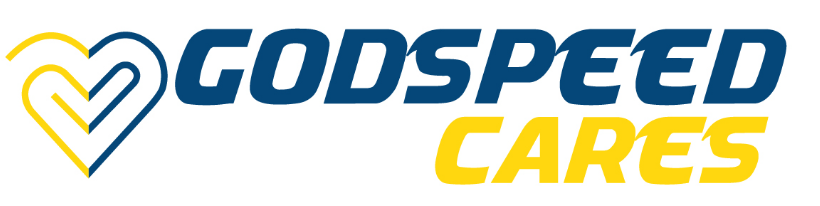
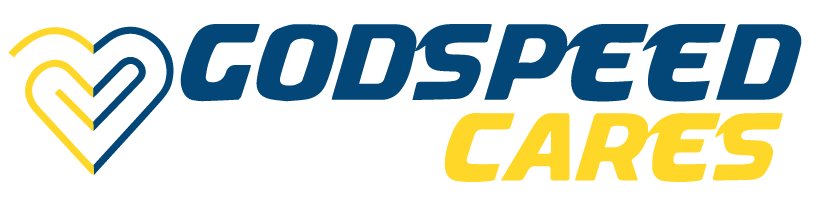
updated

Changed region(s): [[0.0, 0.1165, 0.9756, 0.9029]]

diff --git a/index.html b/index.html
@@ -27,6 +27,7 @@
                     url(images/bg/right-2.svg),
                     url(images/bg/right-3.svg),
                     url(images/bg/right-4.svg),
+                    url(images/bg/godspeed_triangle.gif),
                     url(images/bg/bottom-11.svg);
                 background-repeat: no-repeat;
                 background-position: -1rem -1rem,
@@ -36,6 +37,7 @@
                     85% 40%,
                     calc(100% + 2.5rem) 70%,
                     calc(100% + 1.5rem) bottom,
+                    4% 11rem,
                     center calc(100% + 0.5rem);
                 background-size: 12rem,
                     8rem,
@@ -44,6 +46,7 @@
                     6rem,
                     10rem,
                     10rem,
+                    40rem,
                     10rem;
                 height: 100vh;
                 width: 100%;
@@ -364,7 +367,7 @@
                 <div class="logo-3">
                     <a href="https://cares.godspeedgroup.ca/" target="_blank">
                         <img src="images/godspeed-care.png" alt="11" id="care-1" width="100%">
-                        <img src="images/godspeed-care-old.gif" alt="11" id="care-2" width="100%">
+                        <img src="images/godspeed-care-gif.gif" alt="11" id="care-2" width="100%">
                     </a>
                       
 
